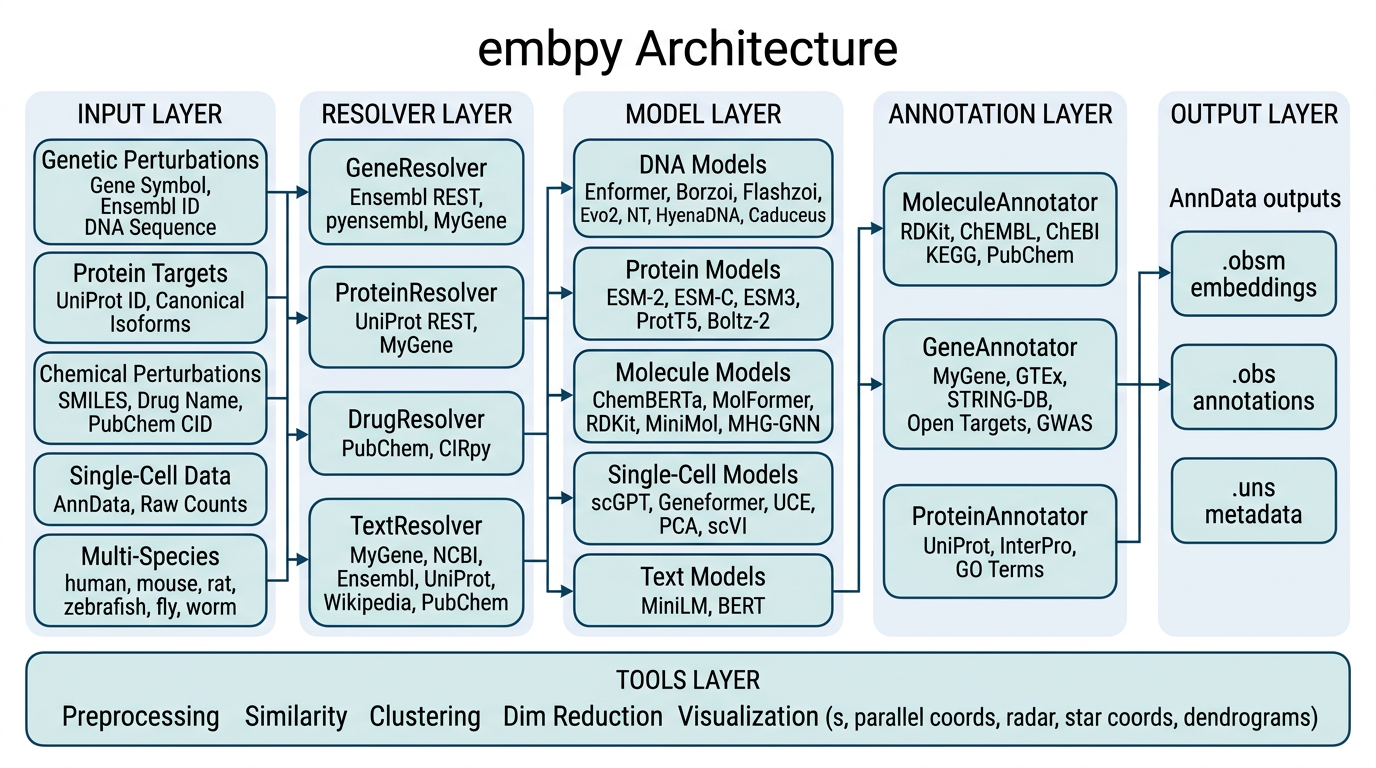
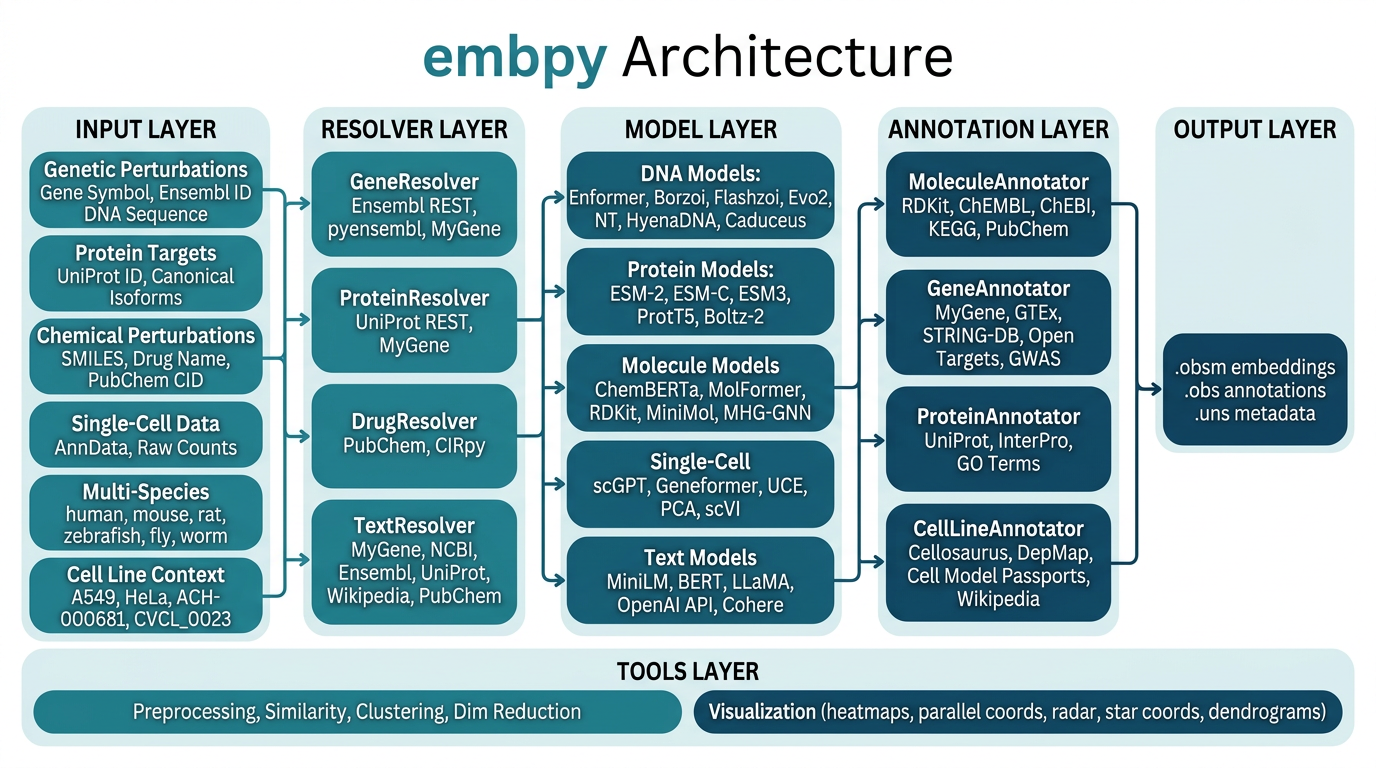
Add CellLineAnnotator with Cellosaurus, DepMap, Passports, and Wikipedia
- CellLineAnnotator: fetch metadata from Cellosaurus (150k+ cell lines),
  DepMap/CCLE (~2000 cancer lines), Cell Model Passports (~1700 models),
  and Wikipedia article extracts
- annotate(), annotate_adata(), get_text_description() for cell lines
- TextResolver: entity_type="cellline" with ACH-/CVCL_ ID detection
- Updated README with cell line features, quick start, tutorial 20
- Regenerated architecture and workflow PNG diagrams
- 16 tests for CellLineAnnotator (all mocked)

Made-with: Cursor

diff --git a/README.md b/README.md
@@ -49,6 +49,7 @@ flowchart TD
         MolAnn["MoleculeAnnotator\nRDKit | ChEMBL | ChEBI\nKEGG | PubChem | UniChem"]
         GeneAnn["GeneAnnotator\nMyGene | GTEx | STRING-DB\nOpen Targets | GWAS Catalog\nDoRothEA"]
         ProtAnn["ProteinAnnotator\nUniProt JSON | InterPro\nGO Terms"]
+        CellAnn["CellLineAnnotator\nCellosaurus | DepMap\nCell Model Passports | Wikipedia"]
     end
 
     subgraph dna_models [DNA Models]
@@ -162,7 +163,7 @@ flowchart TD
 - **Weighted protein embeddings** -- TPM-weighted isoform averaging, annotation-weighted residue pooling, expression-context concatenation
 - **Text knowledge embeddings** -- `TextResolver` fetches descriptions from 6 public sources (MyGene, NCBI, Ensembl, UniProt, Wikipedia, PubChem); `embed_description()` resolves + embeds in one call
 - **Boltz-2 structure embeddings** -- extract trunk representations (single per-residue + pairwise interaction features) from the Boltz-2 biomolecular foundation model
-- **Multi-source annotation** -- `MoleculeAnnotator` (RDKit, ChEMBL, ChEBI, KEGG, PubChem), `GeneAnnotator` (MyGene, GTEx, STRING-DB, Open Targets, GWAS Catalog), `ProteinAnnotator` (UniProt functional metadata, InterPro domains)
+- **Multi-source annotation** -- `MoleculeAnnotator` (RDKit, ChEMBL, ChEBI, KEGG, PubChem), `GeneAnnotator` (MyGene, GTEx, STRING-DB, Open Targets, GWAS Catalog), `ProteinAnnotator` (UniProt functional metadata, InterPro domains), `CellLineAnnotator` (Cellosaurus, DepMap/CCLE, Cell Model Passports, Wikipedia)
 - **20 visualization functions** in `embpy.pl` -- heatmaps, clustermaps, UMAP/t-SNE, parallel coordinates, radar charts, star coordinates, dendrograms, cross-model comparison
 - **GPU acceleration** via rapids_singlecell for preprocessing, PCA, UMAP, neighbors, and Leiden
 - **Batch processing** with SLURM array job scripts for full-genome embedding
@@ -300,6 +301,23 @@ emb_z = embedder.embed_protein("TP53", model="boltz2_pairwise")
 
 # Both concatenated (~512 dims)
 emb_both = embedder.embed_protein("TP53", model="boltz2_both")
+```
+
+### Cell line context annotation
+
+```python
+from embpy.resources import CellLineAnnotator
+
+ann = CellLineAnnotator()
+info = ann.annotate("A549")
+# {'tissue': 'Lung', 'disease': 'Non-small cell lung carcinoma', 'lineage': 'Lung', ...}
+
+# Text embedding of cell line context (metadata + Wikipedia)
+emb = embedder.embed_description("HeLa", entity_type="cellline", model="minilm_l6_v2")
+
+# Annotate cell lines in an AnnData
+adata = ann.annotate_adata(adata, column="cell_line")
+# Adds cellline_tissue, cellline_disease, cellline_lineage to .obs
 ```
 
 ### Annotate perturbations
@@ -506,6 +524,7 @@ print(f"Models: {len(embedder.list_available_models())} available")
 | 17 | Cross-Species Ortholog Embeddings | [17_cross_species_embeddings.ipynb](docs/notebooks/17_cross_species_embeddings.ipynb) |
 | 18 | Text Knowledge Embeddings | [18_text_knowledge_embeddings.ipynb](docs/notebooks/18_text_knowledge_embeddings.ipynb) |
 | 19 | Boltz-2 Structure Embeddings | [19_boltz2_structure_embeddings.ipynb](docs/notebooks/19_boltz2_structure_embeddings.ipynb) |
+| 20 | Cell Line Context Annotation | [20_cellline_context.ipynb](docs/notebooks/20_cellline_context.ipynb) |
 
 ## Package Structure
 
@@ -525,6 +544,7 @@ embpy/
         molecule_annotator.py # Small molecule annotations (6 sources)
         gene_annotator.py     # Gene annotations (pathways, PPI, diseases -- species-aware)
         protein_annotator.py  # Protein annotations (UniProt, InterPro -- species-aware)
+        cellline_annotator.py # Cell line context (Cellosaurus, DepMap, Passports, Wikipedia)
         drug_resolver.py      # Drug name <-> SMILES resolution
     pp/
         sc_preprocessing.py   # Single-cell preprocessing (raw/standard pipelines)
